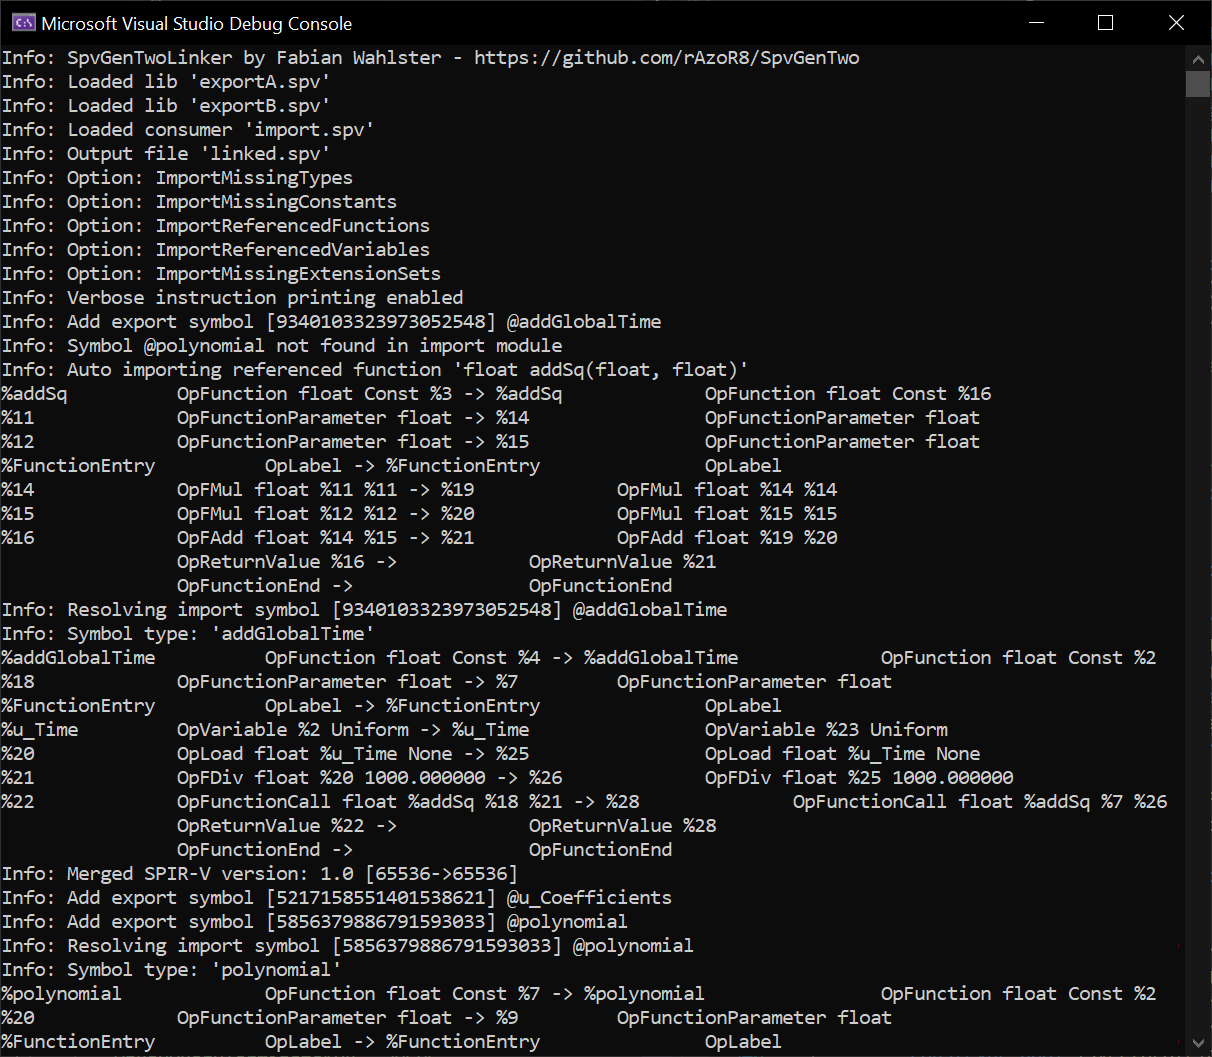
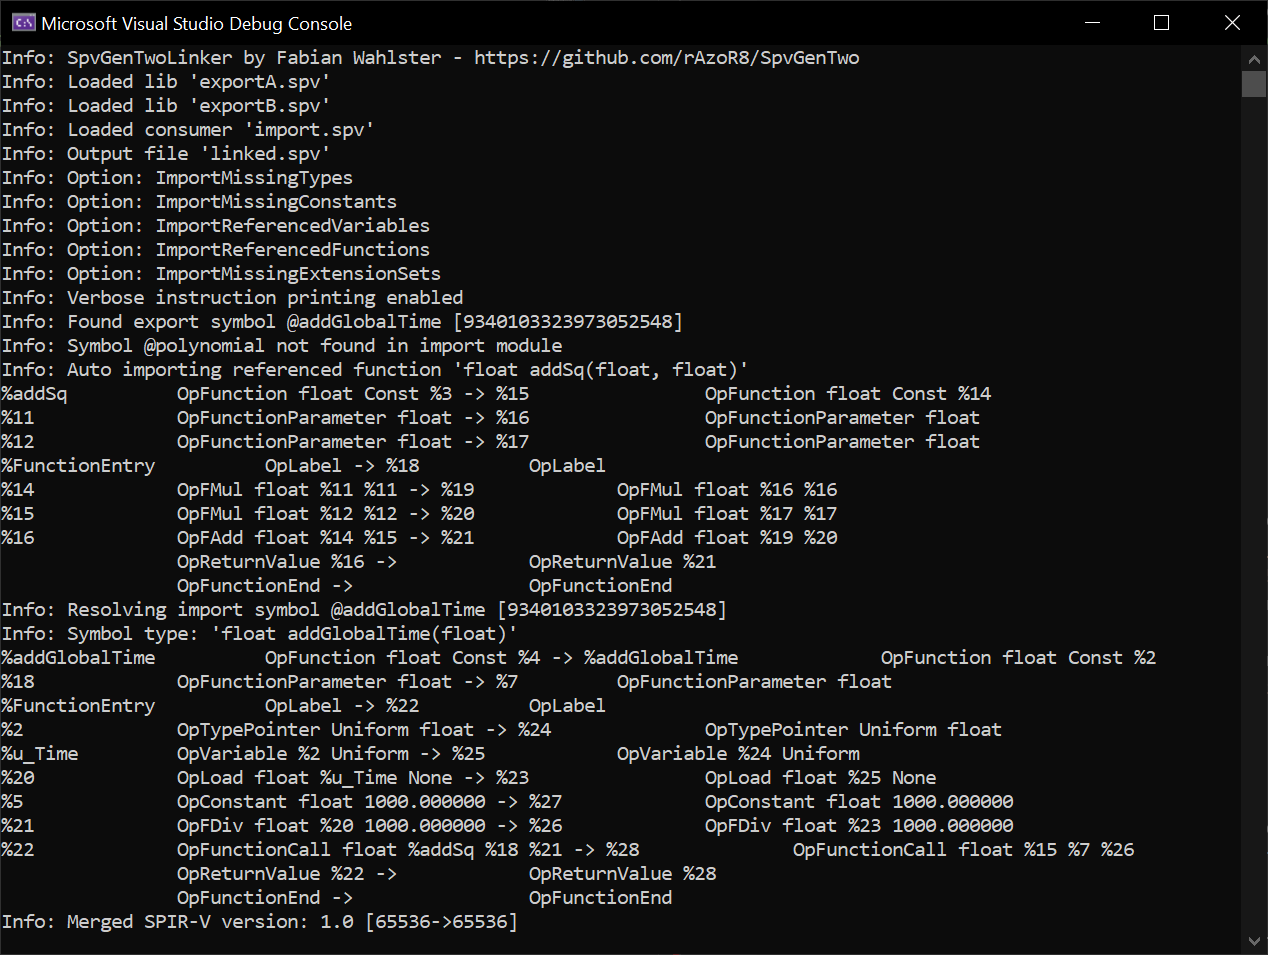
restructure Linker docu

diff --git a/LINKER.md b/LINKER.md
@@ -23,7 +23,7 @@ Currently, GLSL shader compilers do no support SPIR-V import/export attributes s
 
 * `-p shaderPath` path to .spv module that should be prepared for use as import or export module.
     * `-patchspv shaderPath` same as `-p`
-    * if _outputPath_ is undefined _shaderPath_ will be used. (Overwrites the original file)
+    * if `-o` _outputPath_ is undefined _shaderPath_ will be used. (Overwrites the original file)
 * `-e target name -vars` export a symbol (OpVariable or OpFunction) with _target_ ID or string name (if the symbol was decorated with OpName) from the _patchspv_ module by adding `OpDecorate` with LinkageType::Export and export _name_. `-vars` can be used on OpFunction exports to automatically export global variables referenced in the function. Those global variables will be exported with the name taken form OpName (i.e. they can't be exported without OpName).
     `-export target name -vars` same as `-e`. `-vars` is optional
 * `-i target name` import a _target_ symbol (by ID or OpName) with _name_ and LinkageType::Import decoration. `-vars` is only applicable for `-e`.
@@ -44,11 +44,23 @@ Currently, GLSL shader compilers do no support SPIR-V import/export attributes s
     -CopyOpLineInstructions or -lines
     -CopyOpModuleProcessedInstructions or -processed
     -AllOptions or -auto (all of the above)
+    -PrintInstructions or -verbose
 
-## Example
+# Link example
 Example code for generating the SPIR-V modules listed below can be found in the [Linkage Example](example/source/Linkage.cpp)
 
-### import.spv
+__import.spv__ requires external symbols to be runnable:
+* `float addGlobalTime(float x)` from __exportA.spv__
+* `float polynomial(float x)` from __exportB.spv__
+
+We can import __exportA.spv__ and __exportB.spv__ into __import.spv__ and store the result in __linked.spv__ with these arguments:
+```
+SpvGenTwoLinker.exe -l exportA.spv -l exportB.spv -c import.spv -o linked.spv -types -constants -reffuncs -refvars -extsets -verbose
+```
+
+<details>
+  <summary>import.spv</summary>
+
 ```cpp
 ; SPIR-V
 ; Version: 1.0
@@ -84,11 +96,11 @@ Example code for generating the SPIR-V modules listed below can be found in the 
                OpReturn
                OpFunctionEnd
 ```
-__import.spv__ requires external symbols to be runnable:
-* `float addGlobalTime(float x)` from __exportA.spv__
-* `float polynomial(float x)` from __exportB.spv__
+</details>
 
-### exportA.spv
+<details>
+  <summary>exportA.spv</summary>
+
 ```cpp
 ; SPIR-V
 ; Version: 1.0
@@ -140,8 +152,11 @@ __import.spv__ requires external symbols to be runnable:
                OpReturn
                OpFunctionEnd
 ```
+</details>
 
-### exportB.spv
+<details>
+  <summary>exportB.spv</summary>
+
 ```cpp
 ; SPIR-V
 ; Version: 1.0
@@ -193,61 +208,11 @@ __import.spv__ requires external symbols to be runnable:
                OpReturn
                OpFunctionEnd
 ```
+</details>
 
-Note that this is just pseudo SPIR-V code, it's valid but not meaningful. The generating code looks something like this:
+<details>
+  <summary>linked.spv (result)</summary>
 
-```cpp
-	// float polynomial(float x);
-	Function& funcPolynomial = module.addFunction<float, float>(u8"polynomial", spv::FunctionControlMask::Const);
-	LinkerHelper::addLinkageDecoration(funcPolynomial.getFunction(), spv::LinkageType::Export, "@polynomial");
-	{
-		BasicBlock& bb = *funcPolynomial; // get entry block to this function
-		Instruction* x = funcPolynomial.getParameter(0);
-		module.addName(x, "x");
-
-		Instruction* loopCount = module.constant(8u, "count");
-		Instruction* varI = funcPolynomial.variable(0u, "i");
-		Instruction* varSum = funcPolynomial.variable<float>(0.f, "s");
-		Instruction* fltPtr = module.type<float*>("float*", spv::StorageClass::Uniform);
-
-		Instruction* one = module.constant(1);
-
-		BasicBlock& merge = bb.Loop([&](BasicBlock& cond) -> Instruction*
-		{
-			auto i = cond->opLoad(varI);
-			return cond.Less(i, loopCount);
-		}, [&](BasicBlock& inc)
-		{
-			auto i = inc->opLoad(varI);
-			i = inc.Add(i, one);
-			inc->opStore(varI, i); // i++
-		}, [&](BasicBlock& body)
-		{
-			auto i = body->opLoad(varI);
-			auto k = body->opConvertUToF(i);
-
-			// x += x^k * coeff[i]
-			Instruction* Xk = body.ext<ext::GLSL>()->opPow(x, k);
-			Instruction* Ai = body->opAccessChain(fltPtr, uniformCoefficients, i);
-			Ai = body->opLoad(Ai);
-			Instruction* AkXk = body.Mul(Ai, Xk);
-
-			auto s = body->opLoad(varSum);
-			s = body.Add(s, AkXk);
-			body->opStore(varSum, s);
-		});
-		
-		auto s = merge->opLoad(varSum);
-		merge.returnValue(s);
-	}
-```
-
-We can import __exportA.spv__ and __exportB.spv__ into __import.spv__ and store the result in __linked.spv__ with these arguments:
-```
-SpvGenTwoLinker.exe -l exportA.spv -l exportB.spv -c import.spv -o linked.spv -types -constants -reffuncs -refvars -extsets -verbose
-```
-
-## linked.spv (result)
 ```cpp
 ; SPIR-V
 ; Version: 1.0
@@ -356,42 +321,85 @@ SpvGenTwoLinker.exe -l exportA.spv -l exportB.spv -c import.spv -o linked.spv -t
                OpReturn
                OpFunctionEnd
 ```
+</details>
+
+# Patch import/export example
+
+We can remove function bodies and add import/export decorations to modules, turning them into SPIR-V libraries and consumers with these arguments:
+
+## Export - create library
+
+```
+SpvGenTwoLinker.exe -p shader.spv -o libraryA.spv -e addGlobalTime @float_addGlobalTime_float -vars
+```
+
+## Import - create consumer
+
+```
+SpvGenTwoLinker.exe -p shader.spv -o consumerA.spv -i addGlobalTime -i u_Time
+```
+
+<details>
+  <summary>shader.spv</summary>
+
+```cpp
+
+```
+
+</details>
+
+<details>
+  <summary>libraryA.spv</summary>
+
+```cpp
+
+```
+
+</details>
+
+<details>
+  <summary>consumerA.spv</summary>
+
+```cpp
+
+```
+
+</details>
+
+# CLI
 
 `-types` and `-constants` will import newly introduced OpType and OpConstant instructions. Without we will run into these errors (pointer type missing):
 
 ```cpp
-%u_Time         OpVariable %2 Uniform -> Error: [u_Time] OpType operand instruction not found! use 'ImportMissingTypes'
-%2              OpTypePointer Uniform float
-...
-%21             OpFDiv float %20 1000.000000 -> Error: [UNNAMED-SYMBOL] OpConstant/OpSpecConstant operand instruction not found! use 'ImportMissingConstants'
-%5              OpConstant float 1000.000000
+Error: [%9 = OpVariable] operand 'UNNAMED' OpTypePointer not found! Use 'ImportMissingTypes'.
+Error: [%21 = OpFDiv] operand 'UNNAMED' OpConstant not found! Use 'ImportMissingConstants'.
 ```
 
-`-reffuncs` and `-refvars` will import implicitly referenced functions and variables used in `float addGlobalTime(float x)` and `float polynomial(float x)`. Without those we will run in the following errors:
+`-refvars` and `-reffuncs` will import implicitly referenced functions and variables used in `float addGlobalTime(float x)` and `float polynomial(float x)`. Without those we will run in the following errors:
 
 ```cpp
-Error: Call to unresolved OpFunction addSq
-%22             OpFunctionCall float %addSq %18 %21 -> Error: [UNNAMED-SYMBOL] OpFunction operand instruction not found!
-%addSq          OpFunction float Const %3
-                OpReturnValue %22 -> Error: [UNNAMED-SYMBOL] OpFunctionCall operand instruction not found!
-%22             OpFunctionCall float %addSq %18 %21
-
-%20             OpLoad float %u_Time None -> Error: [UNNAMED-SYMBOL] OpVariable operand instruction not found!
-%u_Time         OpVariable %2 Uniform
-%21             OpFDiv float %20 1000.000000 -> Error: [UNNAMED-SYMBOL] OpLoad operand instruction not found!
-%20             OpLoad float %u_Time None
-%22             OpFunctionCall float %addSq %18 %21 -> Error: [UNNAMED-SYMBOL] OpFDiv operand instruction not found!
-%21             OpFDiv float %20 1000.000000
+Error: [%20 = OpLoad] operand 'u_Time' OpVariable not found! Use 'ImportReferencedVariables'.
+Error: [%22 = OpFunctionCall] operand 'addSq' OpFunction not found! Use 'ImportReferencedFunctions'.
 ```
 
 `-extsets` will import OpExtInstImport instructions referenced by OpExtInst in any of the newly imported functions. Without this option we can not use functions with extension set instructions:
 
 ```cpp
-%23             OpExtInst float %1 Pow %20 0.000000 -> Error: [UNNAMED-SYMBOL] OpExtInstImport operand instruction not found!
-%1              OpExtInstImport "GLSL.std.450"
-%24             OpCompositeExtract float %22 0 -> %35           OpCompositeExtract float %33 0
-%25             OpFMul float %24 %23 -> Error: [UNNAMED-SYMBOL] OpExtInst operand instruction not found!
-%23             OpExtInst float %1 Pow %20 0.000000
+Error: [%33 = OpExtInst] operand 'UNNAMED' OpExtInstImport not found! Use 'ImportMissingExtensionSets'.
+```
+
+`-verbose` or `-PrintInstructions` enables verbose printing of instructions transferred from the library to the consuming module.
+
+```cpp
+%addSq          OpFunction float Const %3 -> %15                OpFunction float Const %14
+%11             OpFunctionParameter float -> %16                OpFunctionParameter float
+%12             OpFunctionParameter float -> %17                OpFunctionParameter float
+%FunctionEntry          OpLabel -> %18          OpLabel
+%14             OpFMul float %11 %11 -> %19             OpFMul float %16 %16
+%15             OpFMul float %12 %12 -> %20             OpFMul float %17 %17
+%16             OpFAdd float %14 %15 -> %21             OpFAdd float %19 %20
+                OpReturnValue %16 ->            OpReturnValue %21
+                OpFunctionEnd ->                OpFunctionEnd
 ```
 
 Instead of explicitly stating which parts should be imported, we can also just use `-auto` or `-AllOptions` the import everything needed, but this may come at a performance cost in return.
